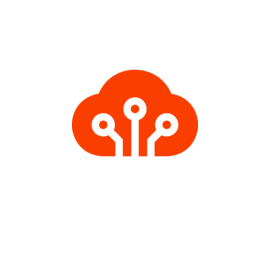
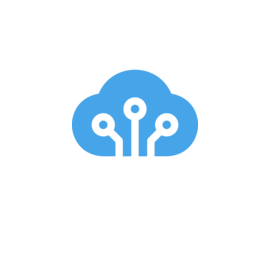
Changed the branding to blue and added a few links #4

Changed region(s): [[0.2667, 0.237, 0.7407, 0.5926]]

diff --git a/_pages/get-started.md b/_pages/get-started.md
@@ -1,0 +1,8 @@
+---
+permalink: /get-started/
+title: "Get started with Digital Silo"
+---
+
+Tempor velit sint sunt ipsum tempor enim ad qui ullamco. Est dolore anim ad velit duis dolore minim sunt aliquip amet commodo labore. Ut eu pariatur aute ea aute excepteur laborum. Esse ea esse excepteur minim mollit qui cillum excepteur ex dolore magna. Labore deserunt fugiat incididunt incididunt sint ea. Consequat dolore aute laboris quis proident quis non et est consectetur ex eiusmod sit culpa.
+
+Cupidatat ea do et in excepteur in. Ad nostrud ut est esse eu duis ea sunt eiusmod. Aliquip tempor veniam sint elit fugiat. Velit incididunt laboris amet incididunt labore dolore irure velit excepteur commodo deserunt laborum. Consectetur eu fugiat veniam veniam Lorem labore magna eiusmod. Ea occaecat reprehenderit pariatur consectetur minim labore ut aliquip.

diff --git a/_pages/contact.md b/_pages/contact.md
@@ -1,0 +1,6 @@
+---
+title: "Contact us"
+sitemap: false
+permalink: /contact/
+layout: single
+---
